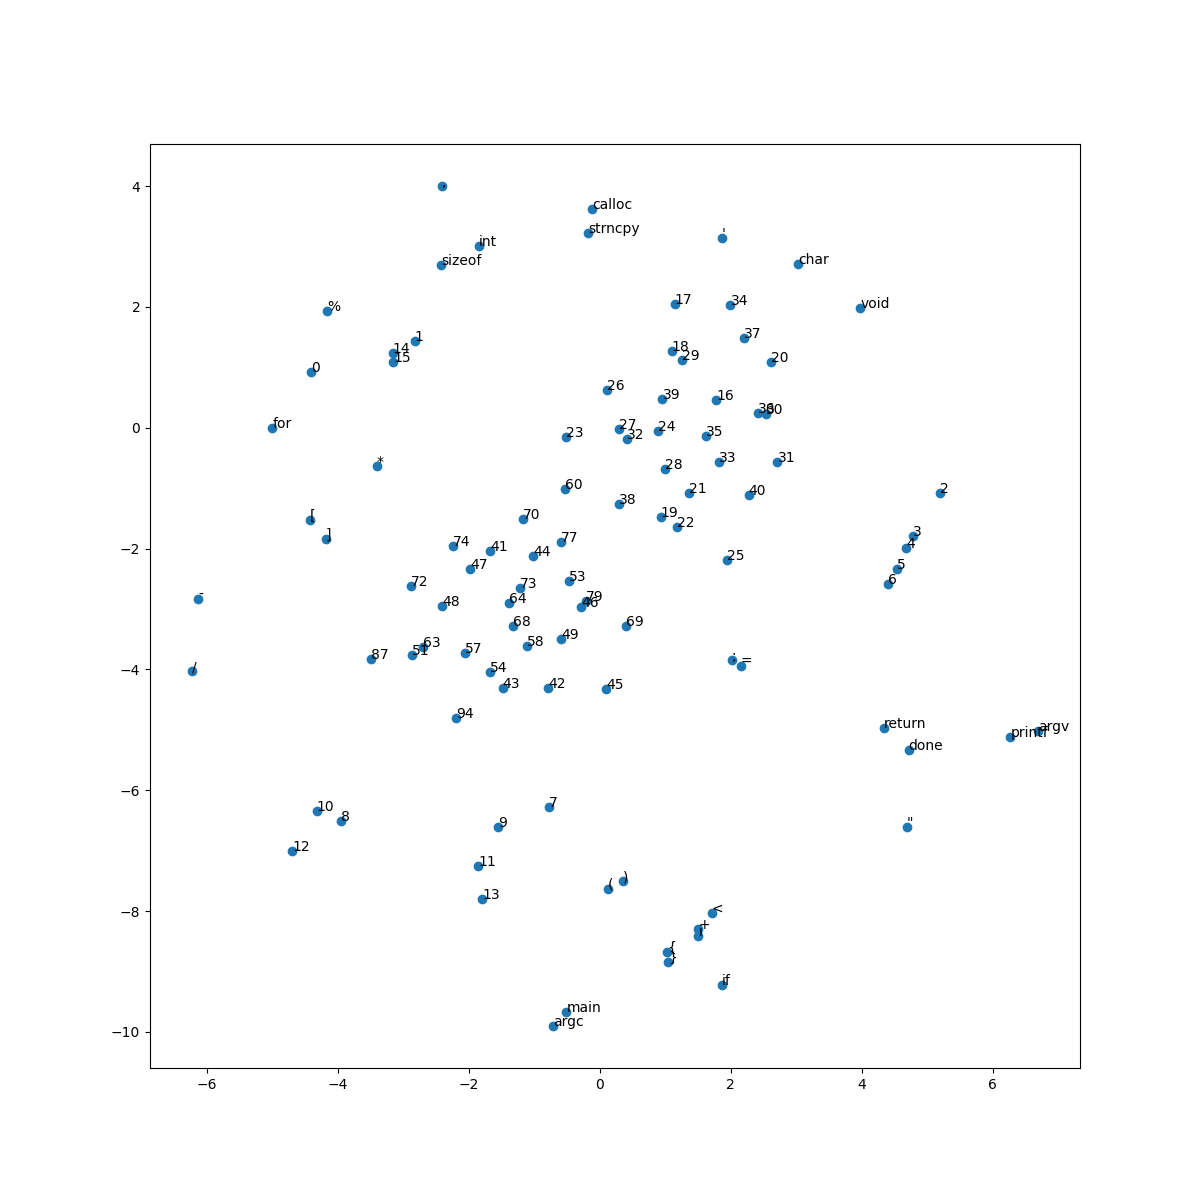
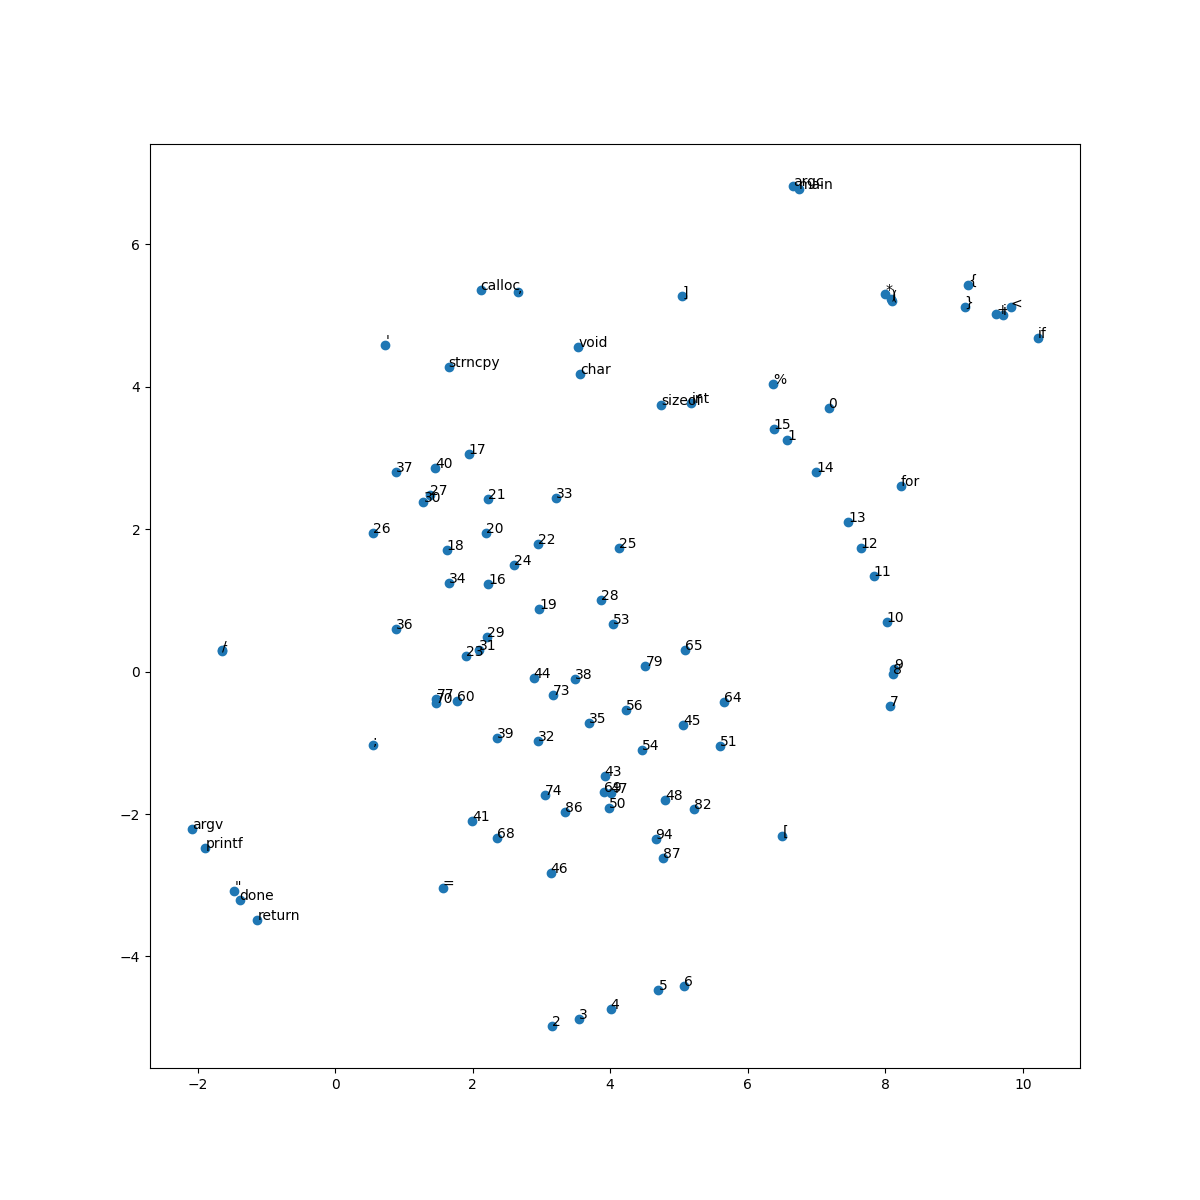
magic commit

diff --git a/vulnDet.py b/vulnDet.py
@@ -15,12 +15,13 @@ import gen
 from tqdm import tqdm
 import gensim.models
 from tensorflow.keras import regularizers
+from sklearn import metrics
 
-train_length = 20
+train_length = 10
 test_length = 10
 file_length = 50
 context_size = 50
-batch_size = 10
+batch_size = 20
 vec_length = 100
 print("0")
 
@@ -119,7 +120,7 @@ dl_model = keras.Sequential(
         layers.Dense(2,activation='softmax',kernel_regularizer = regularizers.l1_l2(l1=0.01, l2=0.01))
     ])
 
-optimizer = tf.optimizers.Adam(learning_rate=0.01)
+optimizer = tf.optimizers.Adam(learning_rate=0.001)
 loss = keras.losses.BinaryCrossentropy()
 
 
@@ -357,6 +358,15 @@ def checkInstallation():
             save("testData","vuln")
             print("Data generation complete !")
     print("Data folders found")
+
+
+def runMIR(path):
+    MIR = pickle.load(open(path,'rb'))
+    print(MIR)
+    MIR = keras.preprocessing.sequence.pad_sequences(MIR, padding='post', dtype=float, maxlen=1500)
+    return dl_model(MIR)
+
+
     
         
     
@@ -365,6 +375,7 @@ def checkInstallation():
 from sklearn.decomposition import IncrementalPCA    # inital reduction
 from sklearn.manifold import TSNE                   # final reduction
 import numpy as np                                  # array handling
+import matplotlib.pyplot as plt
 
 
 def reduce_dimensions(model):
@@ -405,3 +416,25 @@ def plot_with_matplotlib(x_vals, y_vals, labels,name):
 
 checkInstallation()
 trainwithfit()
+
+
+vulns = tf.concat([runMIR("./testData/vuln/MIRl" + str(i)) for i in range(0,10)],0)
+cleans = tf.concat([runMIR("./testData/clean/MIRl" + str(i)) for i in range(0,10)],0)
+
+y = [0]*len(vulns) + [1]*len(cleans)
+scores  = tf.concat([vulns[:,0],cleans[:,0]],0)
+fpr, tpr, thresholds = metrics.roc_curve(y, scores)
+#print(fpr,tpr,thresholds)
+y_pred = []
+for elt in scores:
+    if elt > 0.5:
+        y_pred.append(1)
+    else:
+        y_pred.append(0)
+print(metrics.recall_score(y,y_pred))
+print(metrics.precision_score(y,y_pred))
+print(metrics.f1_score(y,y_pred))
+plt.plot(fpr,tpr)
+plt.xlabel("false positive rate")
+plt.ylabel("true positive rate")
+plt.show()
